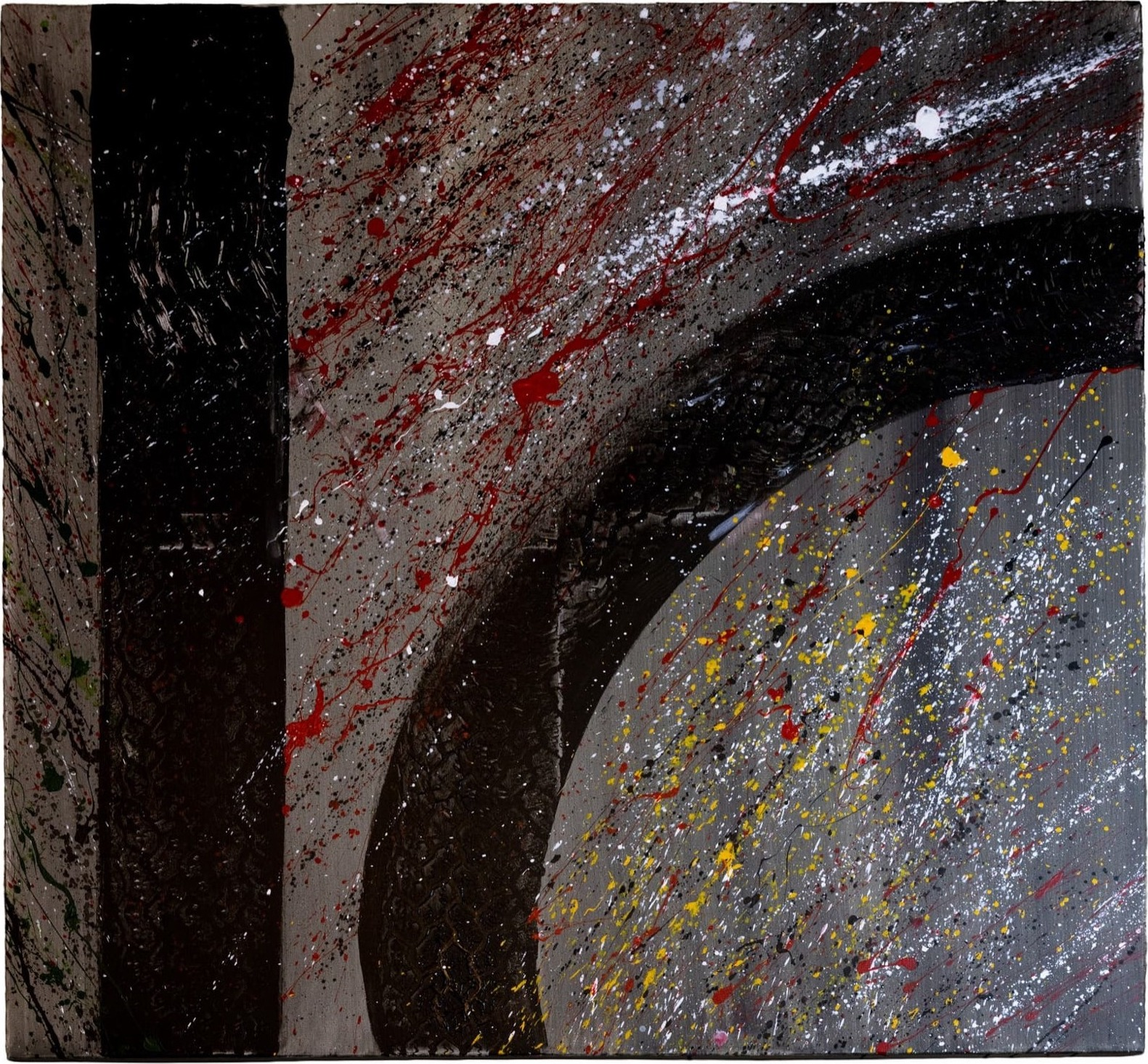
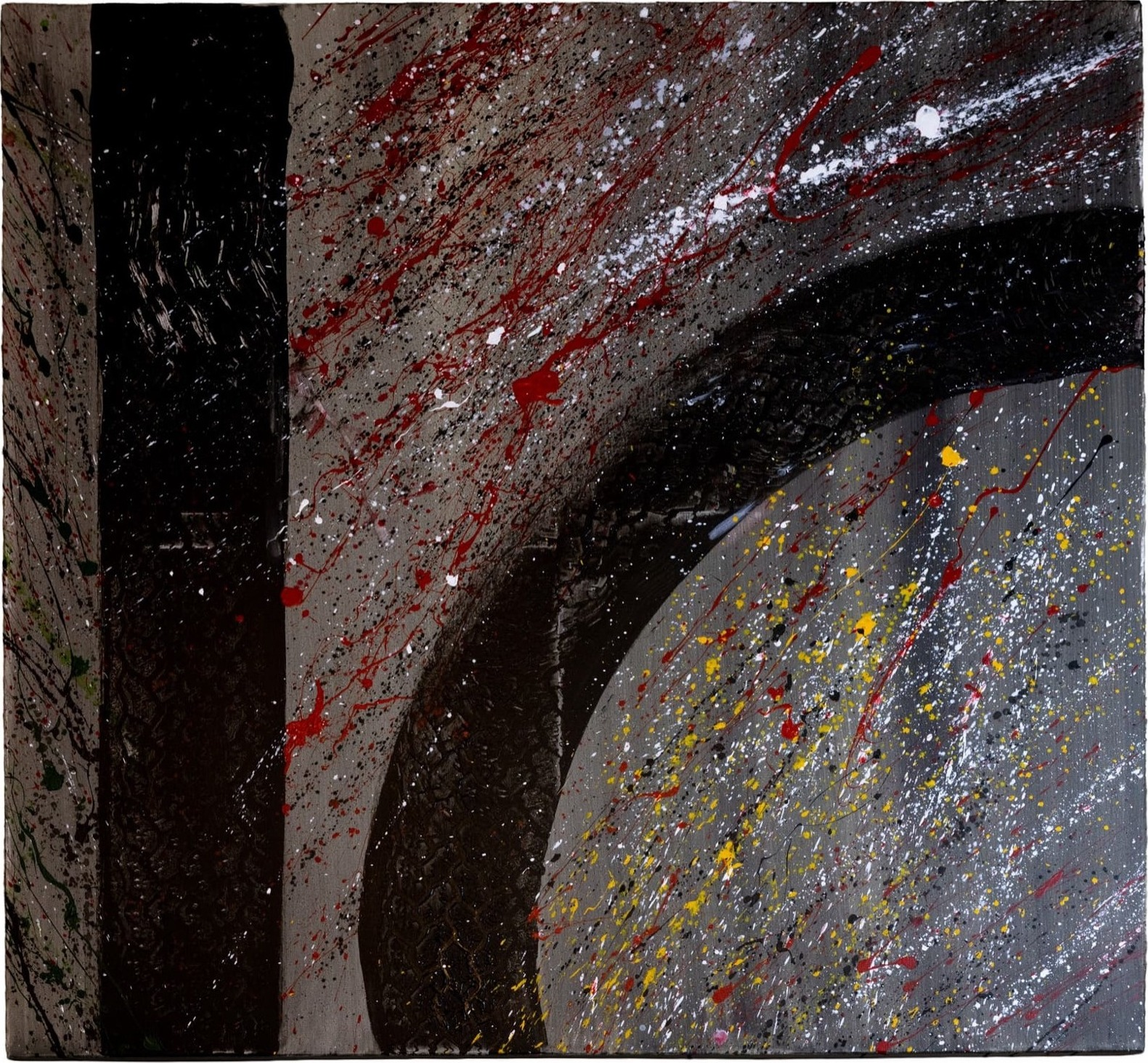
fix(frame): eliminate white background in AmericanFrame canvas area
- Add backgroundColor: theme.fond to canvas container div so any gap
  from objectFit:contain shows the frame's fond color instead of white
- Crop white photographic margins from all 22 toile images (threshold
  200, 80% majority, 2px safety padding) — originals backed up
- Update toiles.json with accurate post-crop dimensions
- Add _backup_originals/ to .gitignore

diff --git a/components/AmericanFrame.tsx b/components/AmericanFrame.tsx
@@ -275,6 +275,7 @@ export default function AmericanFrame({
                     display: 'flex',
                     alignItems: 'center',
                     justifyContent: 'center',
+                    backgroundColor: theme.fond,
                     boxShadow: [
                       RECESS_SHADOW,
                       // Subtle edge catch-light (canvas edge reflecting overhead light)
